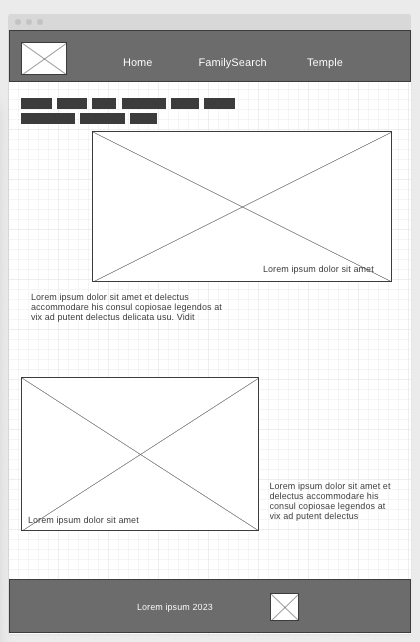
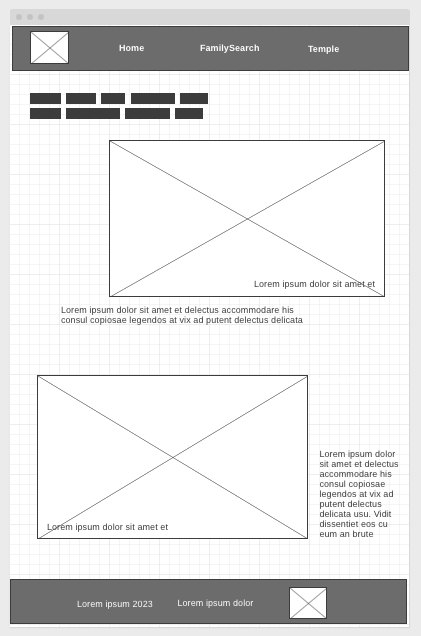
change wireframe(FamilySearch, Temple) add css for FamilySearch page

diff --git a/genealogy-and-church/familysearch.html b/genealogy-and-church/familysearch.html
@@ -5,10 +5,12 @@
     <meta http-equiv="X-UA-Compatible" content="IE=edge">
     <meta name="viewport" content="width=device-width, initial-scale=1.0">
     <title>FamilySearch | The Church of Jesus Christ of Latter-day Saints</title>
+    <link type="text/css" rel="stylesheet" href="styles/style.css"> 
+    <link type="text/css" rel="stylesheet" href="styles/familysearch.css"> 
 </head>
 <body>
     <header>
-        <a id="logo_link" href="index.html"><img src="images/genealogy-logos.webp" alt="genealogy logo"></a>
+        <a id="logo_link" href="index.html"><img id="logo" src="images/genealogy-logos.webp" alt="genealogy logo"></a>
         <nav>
             <a href="index.html">Home</a>
             <a href="familysearch.html">FamilySearch</a>
@@ -16,28 +18,23 @@
         </nav>
     </header> 
     <main>
-        <div>
-            <h1>Connect with ancestors</h1>
-            <img src="images/family_history_fan_chart.webp" alt="family history fan chart">
-            <p class="introduce">
-                FamilySearch is a free website that has <q>the world’s largest family tree and genealogy archive.</q>(FamilySearch website)
-                On this website, people would have a chance to connect to each other’s family tree.
-            </p>
-        </div>
-        <div>
-            <div class="text_background">
-                <p class="introduce">
-                    We can also know our ancestors through records such as documents, stories, photos, and sound recordings.
-                     It is important to develop love with family members.
-                     We can do it by trying to know them more deeply.
-                </p>
-            </div>
-            <img src="images/family-history.webp" alt="family history documents and photos">
-        </div>
+        <h1>Connect with ancestors</h1>
+        <img id="fan_chart" src="images/family_history_fan_chart.webp" alt="family history fan chart">
+        <p id="chart_introduce" class="introduce">
+            FamilySearch is a free website that has <q>the world’s largest family tree and genealogy archive.</q>(FamilySearch website)
+            On this website, people would have a chance to connect to each other’s family tree.
+        </p>
+        <img id="record" src="images/family-history.webp" alt="family history documents and photos">
+        <p id="record_introduce" class="introduce">
+            We can also know our ancestors through records such as documents, stories, photos, and sound recordings.
+                It is important to develop love with family members.
+                We can do it by trying to know them more deeply.
+        </p>
     </main>
     <footer>
         <p>&copy; 2023 - Yun Liu</p>
-        <a href="site-plan.html">Site Plan</a>
+        <p><a href="site-plan.html">Site Plan</a></p>
+        <a href="https://www.familysearch.org" target="_blank"><img class="footer_icon" src="images/familysearch_icon.webp" alt="family search icon"></a>        
     </footer>
 </body>
 </html>

diff --git a/genealogy-and-church/styles/style.css b/genealogy-and-church/styles/style.css
@@ -36,6 +36,14 @@ header {
     display: grid;
     grid-template-columns: 150px auto;
     background-color: var(--secondary-color);
+    position: fixed;
+    width: 1800px;
+    height: 120px;
+    top:0;
+}
+
+main {
+    margin-top: 120px;
 }
 
 nav {
@@ -46,8 +54,8 @@ nav {
 }
 
 nav a {
-    padding: 40px;
-    font-size: 2em;
+    padding: 30px 100px;
+    font-size: 2.5em;
     color: var(--nav-link-color);
     text-decoration: none;
 }
@@ -60,77 +68,24 @@ nav a:hover {
 body {
     background-color: var(--paragraph-background-color);
     font-family: var(--paragraph-font);
-    max-width: 1600px;
+    max-width: 1800px;
     margin: 0 auto;
     padding: 0;
     color: var(--secondary-color);
-}
-
-main {
-    display: grid;
-    grid-template-columns: repeat(8, 1fr);
-}
-
-#family_banner {
-   grid-column: 1/-1; 
-   grid-row: 1;
-
-   width: 100%;
-}
-
-h1 {
-    grid-column: 1 / -1;
-    grid-row: 1;
-    font-family: var(--heading-font);
-    color: var(--headline-color-on-color);
-    padding: 20px 80px;
-}
-
-p {
-    font-size: x-large;
-    line-height: 2em;
-}
-
-#family_quote {
-    grid-column: 2 / -2;
-    grid-row: 5 / 6;
-
-    height: fit-content;
-    width: fit-content;
-    border-radius: 15px;
-    border: 5px solid var(--secondary-color);
-    padding: 25px;
-    margin: 200px auto;
-}
-
-#family_quote q {
-    font-size: xx-large;
-}
-
-#family_quote p {
-    text-align: right;
-}
-
-#family_intro {
-    grid-column: 2 / 5;
-    grid-row: 8 / 10;
-}
-
-#family_intro + img {
-    grid-column: 6 / -2;
-    grid-row: 7 / 11;
-
-    width: 500px;
-    margin-bottom: 100px;
-    border-radius: 10px;
 }
 
 footer {
     background-color: var(--secondary-color);
     color: var(--accent1-color);
     display: flex;
-    /* align-items: center; */
+    align-items: center;
     justify-content: center;
+}
+
+h1 {
+    font-size: 3em;
+    font-family: var(--heading-font);
+    color: var(--headline-color-on-color);
 }
 
 footer p {
@@ -146,4 +101,15 @@ footer a {
 footer a:hover {
     text-decoration: underline;
     color: var(--primary-color);
+}
+
+.footer_icon {
+    width: 90px;
+    margin: 10px 50px;
+    border-radius: 5px;
+}
+
+p {
+    font-size: x-large;
+    line-height: 2em;
 }

diff --git a/genealogy-and-church/styles/index.css b/genealogy-and-church/styles/index.css
@@ -1,0 +1,74 @@
+@import url('https://fonts.googleapis.com/css2?family=Merienda&family=Patrick+Hand&display=swap');
+
+:root {
+  --primary-color: #F2EEE4;
+  --secondary-color: #5065A8;
+  --accent1-color: #E6F0EC;
+  --accent2-color: white;
+
+  --heading-font: 'Merienda', cursive;
+  --paragraph-font: 'Patrick Hand', cursive;
+
+  /* these colors below should be chosen from among your palette colors above */
+  --headline-color-on-white: #5065A8;  /* headlines on a white background */ 
+  --headline-color-on-color: #5065A8; /* headlines on a colored background */ 
+  --paragraph-color-on-white: #5065A8; /* paragraph text on a white background */ 
+  --paragraph-color-on-color: #5065A8; /* paragraph text on a colored background */ 
+  --paragraph-background-color: #F2EEE4;
+  --nav-link-color: #E6F0EC;
+  --nav-background-color: #5065A8;
+  --nav-hover-link-color: #5065A8;
+  --nav-hover-background-color: #E6F0EC;
+}
+
+main {
+    display: grid;
+    grid-template-columns: repeat(8, 1fr);
+}
+
+#family_banner {
+   grid-column: 1/-1; 
+   grid-row: 1;
+
+   width: 100%;
+}
+
+#family_banner + h1 {
+    grid-column: 1 / -1;
+    grid-row: 1;
+    padding: 20px 80px;
+}
+
+#family_quote {
+    grid-column: 2 / -2;
+    grid-row: 5 / 6;
+
+    height: fit-content;
+    width: fit-content;
+    border-radius: 15px;
+    border: 5px solid var(--secondary-color);
+    padding: 25px;
+    margin: 200px auto;
+}
+
+#family_quote q {
+    font-size: xx-large;
+}
+
+#family_quote p {
+    text-align: right;
+}
+
+#family_intro {
+    grid-column: 2 / 5;
+    grid-row: 8 / 10;
+}
+
+#family_intro + img {
+    grid-column: 6 / -2;
+    grid-row: 7 / 11;
+
+    width: 500px;
+    margin-bottom: 100px;
+    border-radius: 10px;
+}

diff --git a/genealogy-and-church/styles/familysearch.css b/genealogy-and-church/styles/familysearch.css
@@ -1,0 +1,68 @@
+@import url('https://fonts.googleapis.com/css2?family=Merienda&family=Patrick+Hand&display=swap');
+
+:root {
+  --primary-color: #F2EEE4;
+  --secondary-color: #5065A8;
+  --accent1-color: #E6F0EC;
+  --accent2-color: white;
+
+  --heading-font: 'Merienda', cursive;
+  --paragraph-font: 'Patrick Hand', cursive;
+
+  /* these colors below should be chosen from among your palette colors above */
+  --headline-color-on-white: #5065A8;  /* headlines on a white background */ 
+  --headline-color-on-color: #5065A8; /* headlines on a colored background */ 
+  --paragraph-color-on-white: #5065A8; /* paragraph text on a white background */ 
+  --paragraph-color-on-color: #5065A8; /* paragraph text on a colored background */ 
+  --paragraph-background-color: #F2EEE4;
+  --nav-link-color: #E6F0EC;
+  --nav-background-color: #5065A8;
+  --nav-hover-link-color: #5065A8;
+  --nav-hover-background-color: #E6F0EC;
+}
+
+main {
+    display: grid;
+    grid-template-columns: repeat(16, 1fr);
+}
+
+h1 {
+    grid-column: 9/-2;
+    grid-row: 1;
+    margin: 300px auto 0px;
+    font-size: 3em;
+}
+
+#fan_chart {
+    grid-column: 2/9;
+    grid-row: 1;
+    width: 100%;
+    max-width: 700px;
+    margin-top: 150px;
+    box-shadow: 5px 5px 10px #6f7364;
+}
+
+#chart_introduce {
+    grid-column: 2/8;
+    grid-row: 2;
+}
+
+#record_introduce {
+    grid-column: 11/-1;
+    grid-row: 3;
+    height: fit-content;
+    padding: 60px;
+    margin-top: 200px;
+    background-color: var(--secondary-color);
+    color: var(--accent1-color);
+    border-radius: 20px;
+}
+
+#record {
+    grid-column: 2/-2;
+    grid-row: 3;
+    width: 100%;
+    margin-top: 300px;
+    margin-bottom: 100px;
+    border-radius: 20px;
+}

diff --git a/genealogy-and-church/index.html b/genealogy-and-church/index.html
@@ -6,6 +6,7 @@
     <meta name="viewport" content="width=device-width, initial-scale=1.0">
     <title>Genealogy | The Church of Jesus Christ of Latter-day Saints</title>
     <link type="text/css" rel="stylesheet" href="styles/style.css"> 
+    <link type="text/css" rel="stylesheet" href="styles/index.css"> 
 </head>
 <body>
     <header>
